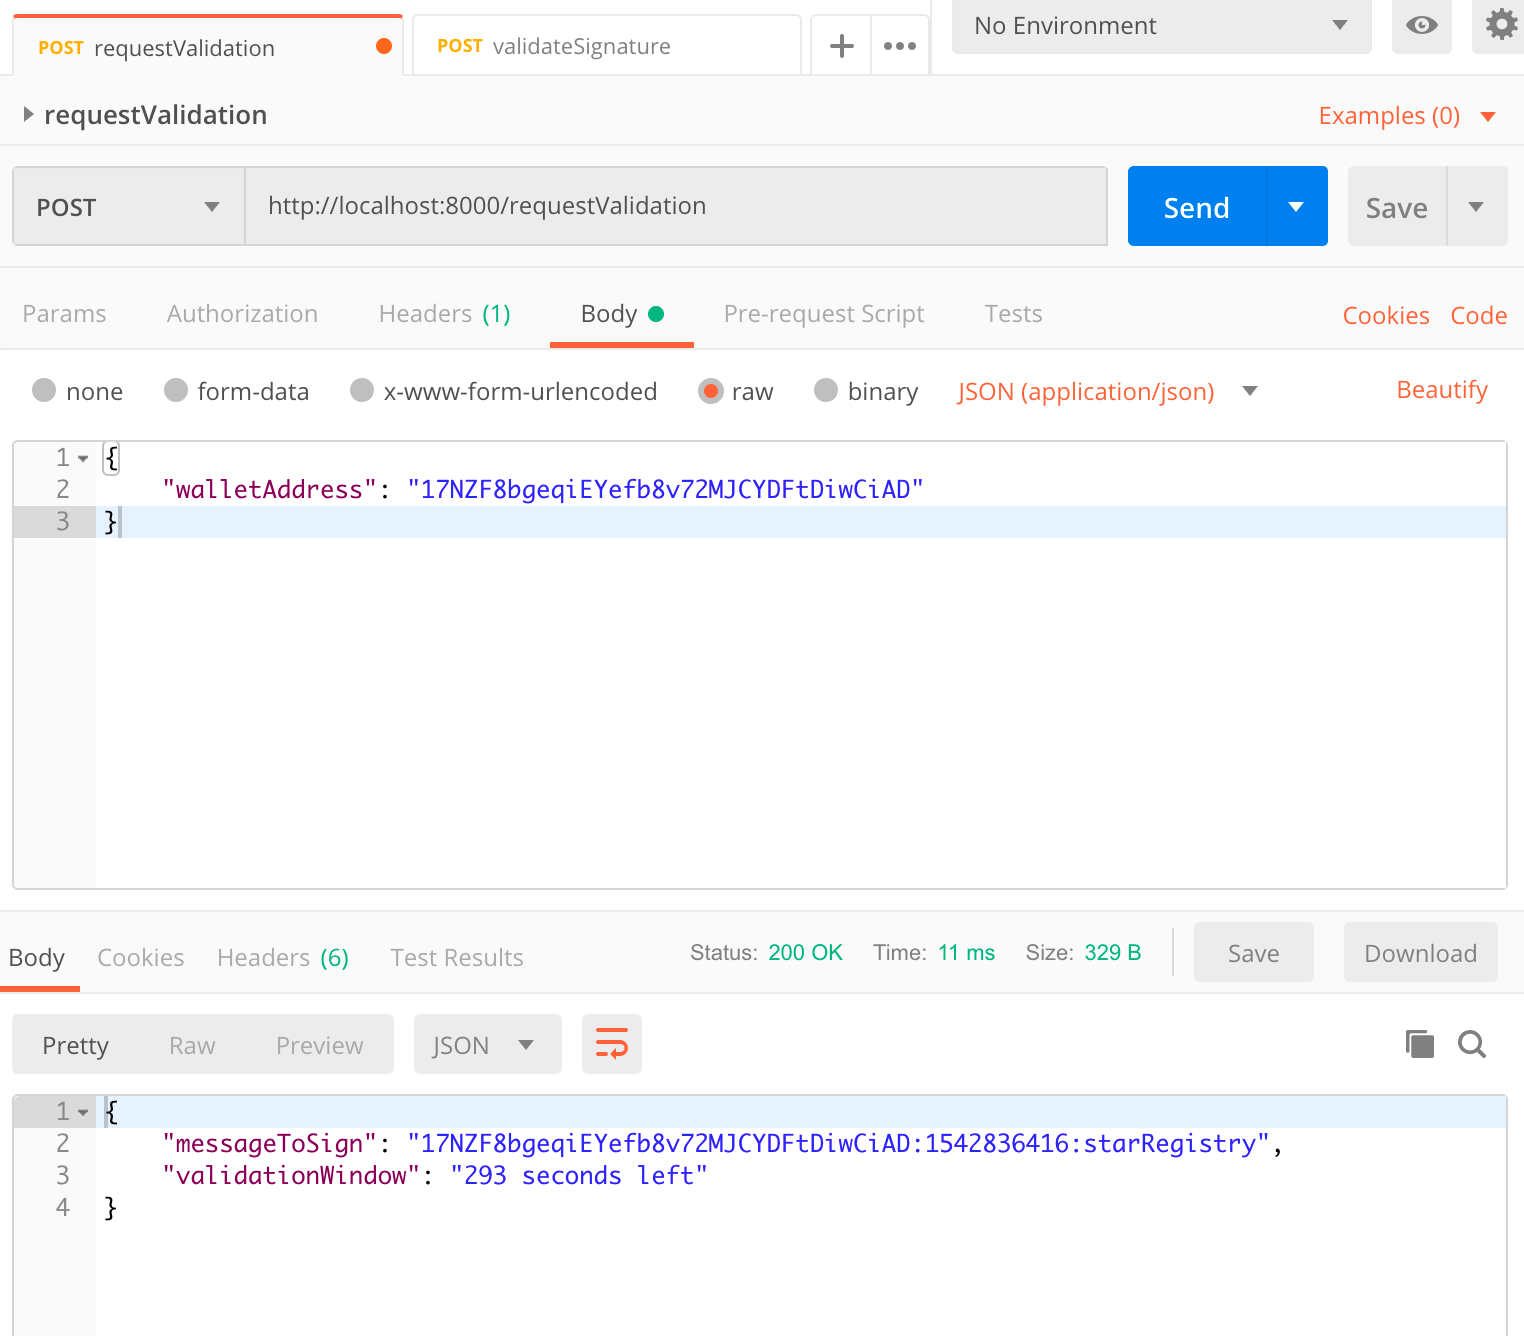
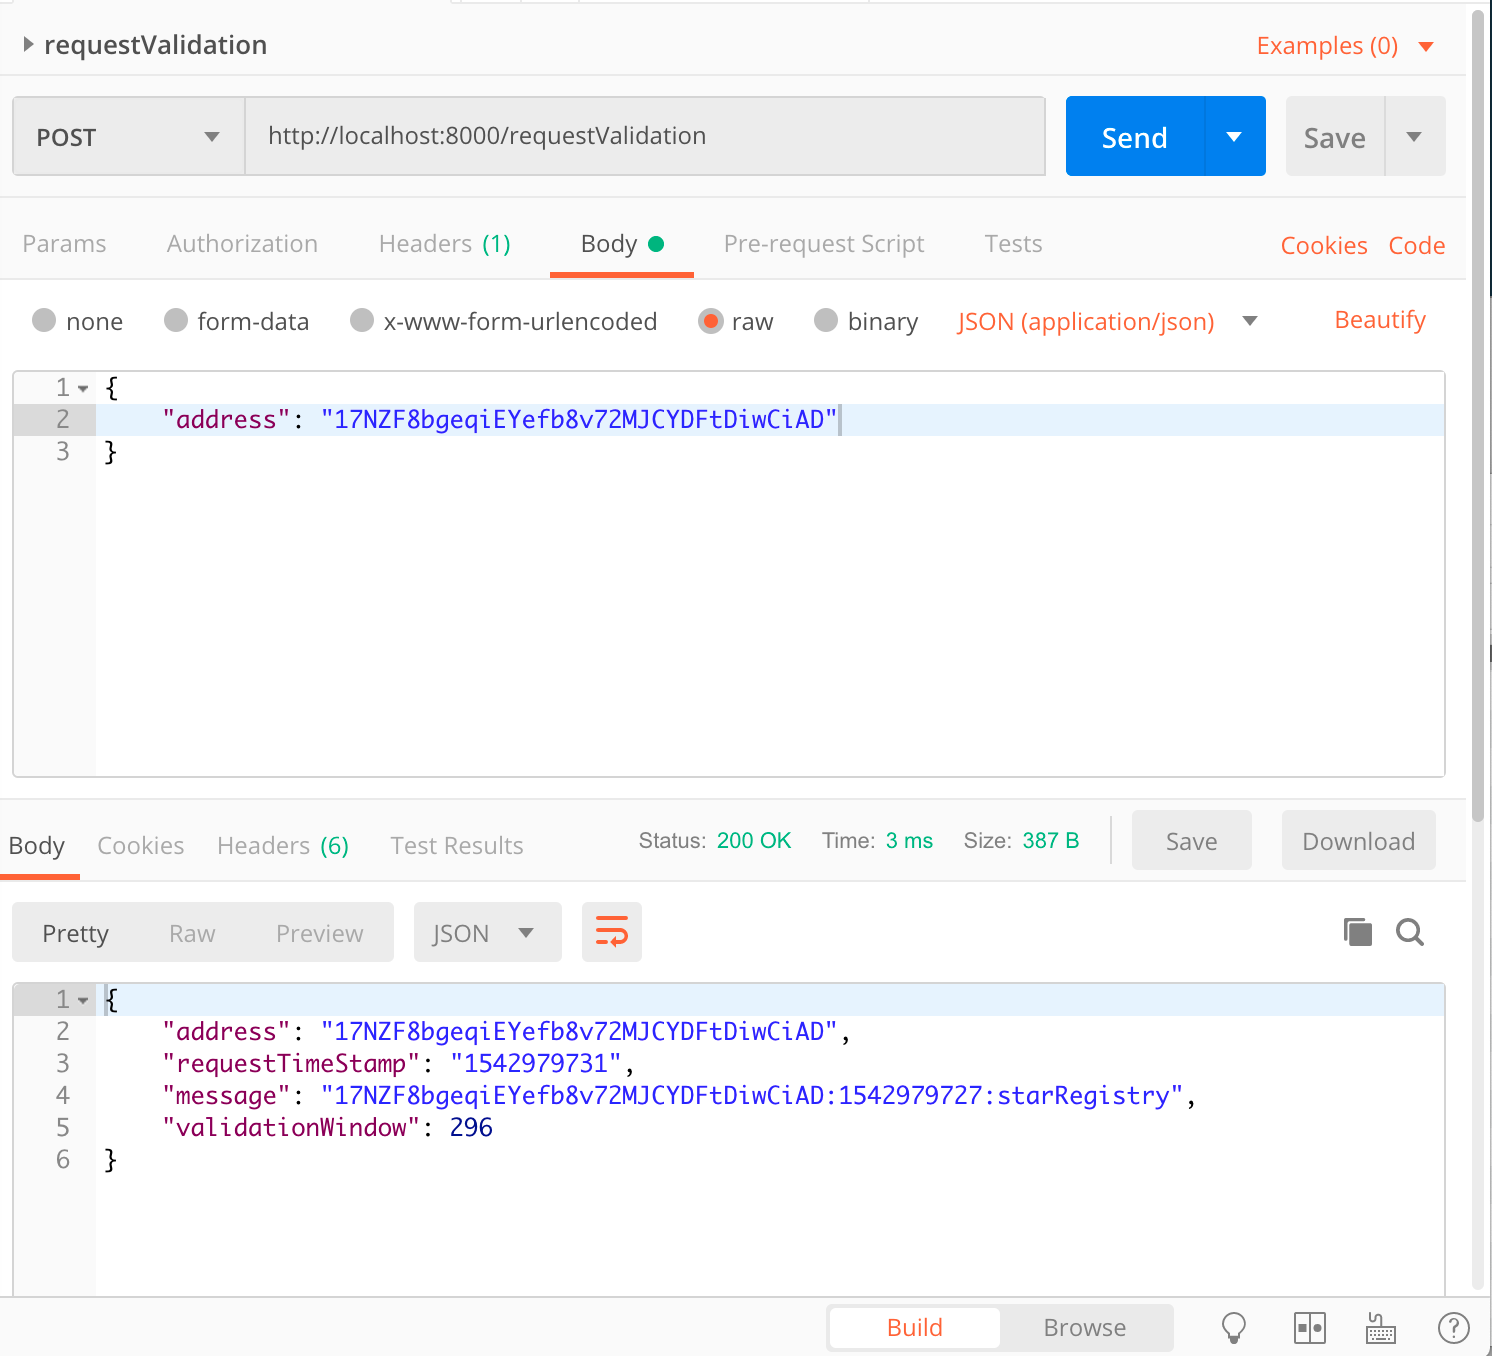
final revision. One validation one star!

diff --git a/ValidationController.js b/ValidationController.js
@@ -49,13 +49,11 @@ class ValidationController {
 
           // if in Mempool, compare the timestamp. If elapsed time is less than 5 mins, do nothing and return the same messageToSign
           // if not in Mempool, add it to the mempool and issue a new messageToSign
-          let timeElapsed = (new Date().getTime().toString().slice(0,-3)) - this.mempool[address];
-
-          let message = null;
-          let timeLeft = null;
+          let message, timeLeft, timeElapsed;
 
           if (inMempool) {
-            message = address + `:` + this.mempool[address] + `:starRegistry`
+            timeElapsed = (new Date().getTime().toString().slice(0,-3)) - this.mempool[address].requestTimeStamp;
+            message = address + `:` + this.mempool[address].requestTimeStamp + `:starRegistry`
             timeLeft = (TimeoutRequestsWindowTime) - timeElapsed;
           } else {
             message = address + `:` + requestTimeStamp + `:starRegistry`
@@ -66,9 +64,8 @@ class ValidationController {
             setTimeout(() => {
               delete this.mempool[address]
             }, TimeoutRequestsWindowTime*1000);
-
             
-            timeLeft = (TimeoutRequestsWindowTime);
+            timeLeft = TimeoutRequestsWindowTime;
           }
 
           // Send the message to be signed back in JSON format
@@ -98,13 +95,9 @@ class ValidationController {
         const { address, signature } = req.body;
 
         // verify if the request is in the mempool by wallet address, and then verify signature
-        let inMempool =  this.mempool.hasOwnProperty(address)
-        let isValid = null;
-        let requestTimeStamp = null;
-        let timeElapsed = null; 
-        let result = null;
-        let validationWindow = null;
-        let message = null;
+        let inMempool =  this.mempool.hasOwnProperty(address);
+        let isValid, requestTimeStamp, timeElapsed, result, validationWindow, message;
+
         if (inMempool) { // address found in the mempool
           requestTimeStamp = this.mempool[address].requestTimeStamp
           timeElapsed = (new Date().getTime().toString().slice(0,-3)) - requestTimeStamp;
@@ -151,7 +144,7 @@ class ValidationController {
   postNewBlock() {
     this.app.post("/block", async (req, res) => {
       try {
-        // define the star information that will be written into block
+        // define the star information that will be written into block and validate them
         let script = req.body
 
         // Check if there is any content. No content no new block
@@ -161,13 +154,33 @@ class ValidationController {
             message: "Please check your request, which might be empty, undefined, or in a wrong format."
           })
         } else {
+          // check if dec, ra, and story are valid
+          let storyTooLong = script.star.story.length > 250 ? true : false
+          let dec = script.star.dec
+          let ra = script.star.ra
+
+          if (storyTooLong) {
+            throw "Your story exceeds the limit of 250 words"
+          }
+
+          if (!dec || !ra) {
+            throw "Your star dec or ra is wrong. Plesae check"
+          }
+
           // verify if the address has passed the validation earlier
           let addressVerified = false;
+          let newMempoolValid = [];
           this.mempoolValid.forEach((each) => {
             if (script.address === each.status.address) {
               addressVerified = true;
+            } else {
+              newMempoolValid.push(each);
             }
           })
+          // update mempoolValid because one validation can register only one star
+          // if address not found in mempoolValid, mempoolValid = newMempoolValid anyway
+          // if address found in mempoolValid, newMempoolValid take out that address
+          this.mempoolValid = newMempoolValid
 
           if (addressVerified) {
             // hex coded the story
@@ -175,7 +188,7 @@ class ValidationController {
             // add new block to the chain
             let newBlock = new Block(script)
             await blockchain.addBlock(newBlock)
-
+            
             // return the block just added
             // note: in response we have to add a storyDecoded which won't be saved into the blockchain
             newBlock.body.star.storyDecoded = hex2ascii(script.star.story)
@@ -183,7 +196,7 @@ class ValidationController {
             } else {
               res.status(400).json({
                 success: false,
-                message: `Your address is not valid. Please go to \requestValidation to start the process.`
+                message: `Your address is not valid or expired. Please go to requestValidation to start the process.`
               })
             }
           }
